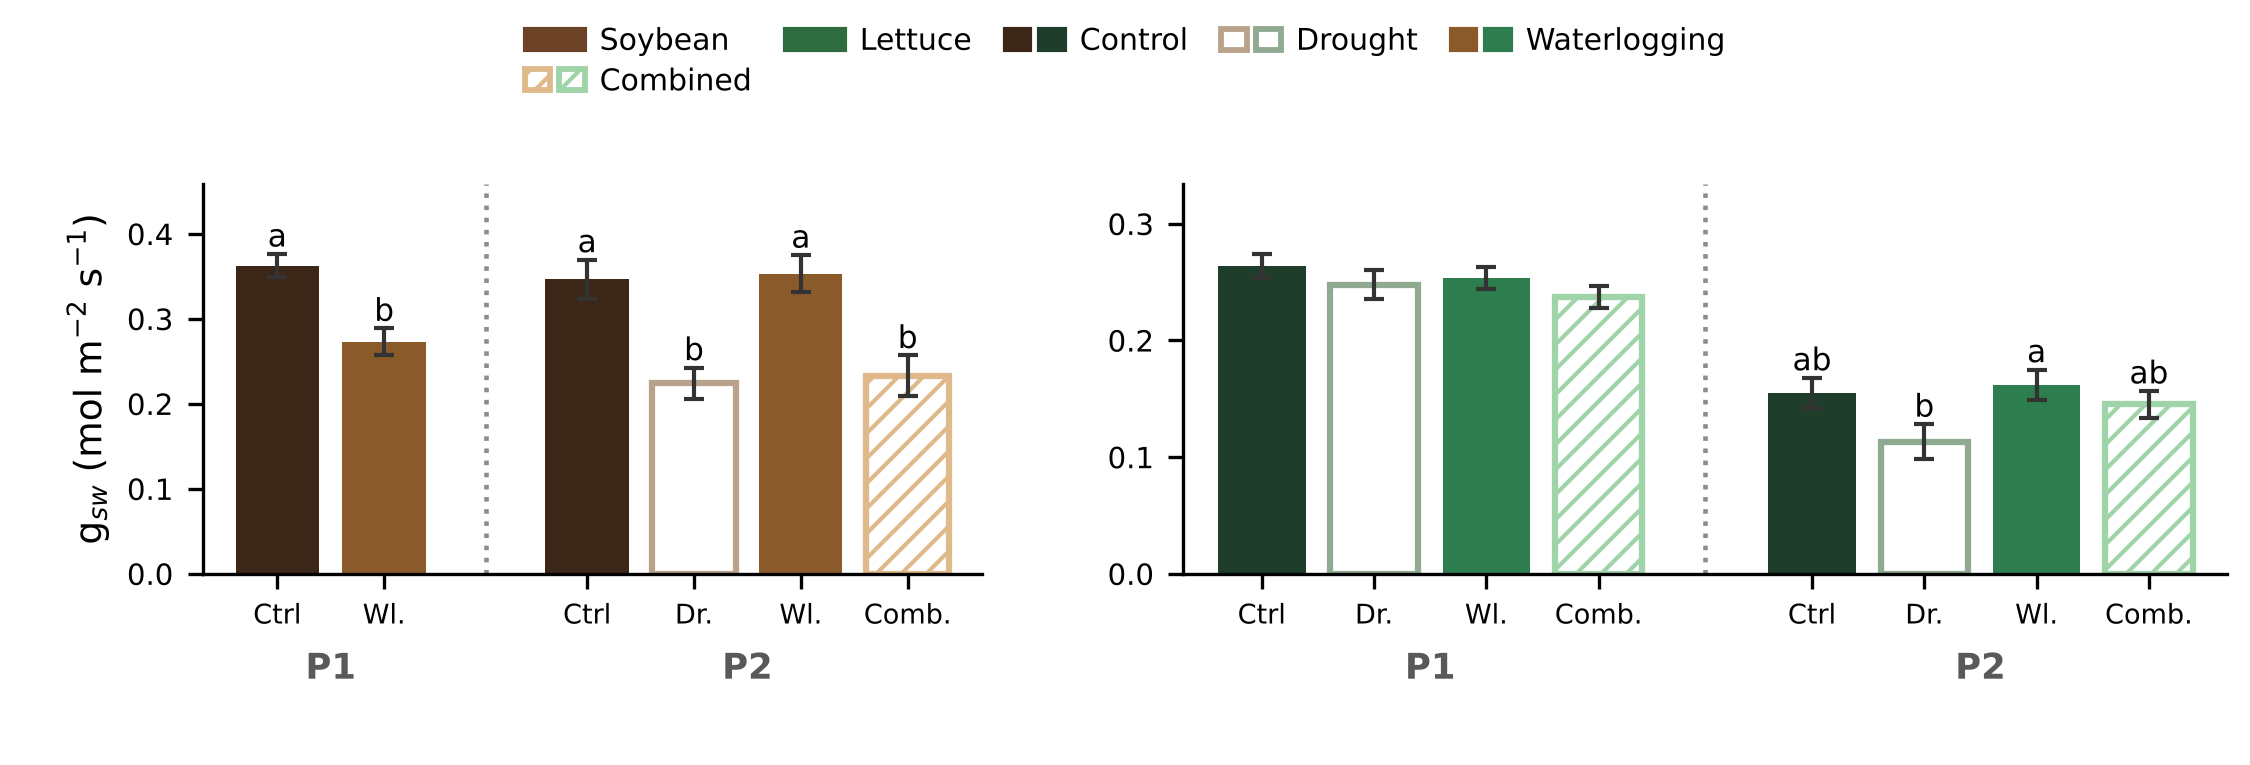
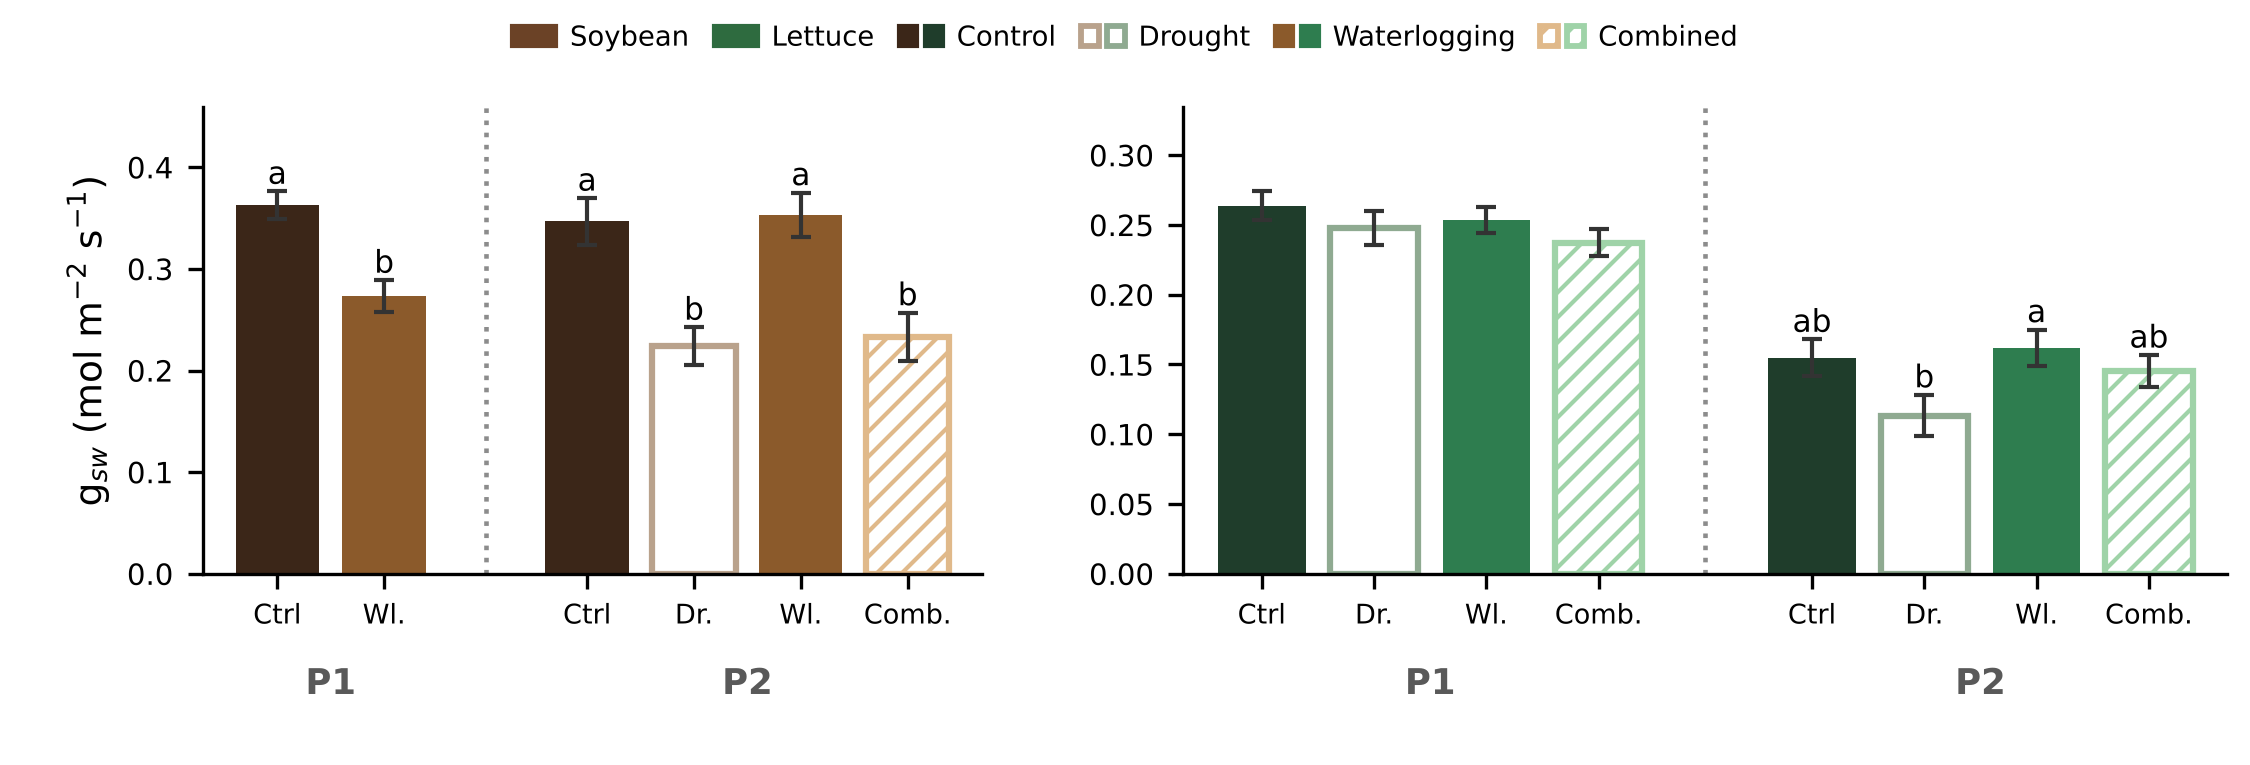
gsw 막대 그래프 2종 범례 한 줄로 정리
Claude-Session: https://claude.ai/code/session_01UmxmETyGrZNmWrhahjyccu

diff --git a/03_코드/oral_deck/bars/fig_v13.py b/03_코드/oral_deck/bars/fig_v13.py
@@ -36,16 +36,16 @@ def panel(ax,ind,crop,xlab=True,ylab=True):
     if ylab: ax.set_ylabel(LAB[ind],fontsize=9)
     if xlab:
         for per,xc in groups: ax.text(xc,-0.2,per,ha='center',va='top',fontsize=8.5,fontweight='bold',color='0.35',transform=ax.get_xaxis_transform())
-def legend_bar(fig,ncol=5):
+def legend_bar(fig,ncol=5,fs=7.2,cs=1.1,hl=2.0):
     hs=[(tuple(Patch(color=CROPC[c][t]) if FILLED[t] else Patch(facecolor='white',edgecolor=CROPC[c][t],lw=1.4,hatch='////' if t=='침수ETc50' else None) for c in ('bean','lettuce')),NAME[t]) for t in ORDER]
-    legend2(fig,E_crops()+hs,ncol,fontsize=7.2,hl=2.0)
-def make(inds,size,fname,adjust):
+    legend2(fig,E_crops()+hs,ncol,fontsize=fs,hl=hl,cs=cs)
+def make(inds,size,fname,adjust,lg=dict()):
     r=len(inds); wr=[nbars('bean')-1+0.9,nbars('lettuce')-1+0.9]
     fig,axs=plt.subplots(r,2,figsize=size,dpi=300,gridspec_kw={'width_ratios':wr}); axs=np.atleast_2d(axs)
     for i,ind in enumerate(inds):
         for j,crop in enumerate(['bean','lettuce']): panel(axs[i,j],ind,crop,xlab=(i==r-1),ylab=(j==0))
-    legend_bar(fig); fig.subplots_adjust(**adjust); fig.savefig('figs5/'+fname); plt.close(fig)
+    legend_bar(fig,**lg); fig.subplots_adjust(**adjust); fig.savefig('figs5/'+fname); plt.close(fig)
 if __name__=='__main__':
-    make(['gsw'],(7.5,2.55),'bars_gsw.png',dict(left=0.09,right=0.99,top=0.76,bottom=0.25,wspace=0.22))
+    make(['gsw'],(7.5,2.55),'bars_gsw.png',dict(left=0.09,right=0.99,top=0.86,bottom=0.25,wspace=0.22),lg=dict(ncol=6,fs=6.6,cs=0.9,hl=1.6))
     make(['phi','phinpq','phino'],(7.2,5.3),'bars_phi3.png',dict(left=0.095,right=0.99,top=0.89,bottom=0.085,hspace=0.2,wspace=0.22))
     print('ok')

diff --git a/03_코드/oral_deck/bars/fig_v14.py b/03_코드/oral_deck/bars/fig_v14.py
@@ -28,8 +28,8 @@ def make(inds,size,fname,adjust):
     for i,ind in enumerate(inds):
         for j,crop in enumerate(['bean','lettuce']): pct_panel(axs[i,j],ind,crop,xlab=(i==r-1),ylab=(j==0))
     hs=[(tuple(Patch(color=CROPC[c][t]) if FILLED[t] else Patch(facecolor='white',edgecolor=CROPC[c][t],lw=1.4,hatch='////' if t=='침수ETc50' else None) for c in ('bean','lettuce')),NAME[t]) for t in TR]
-    legend2(fig,E_crops()+hs+[(Line2D([],[],color='0.4',ls='--',lw=1),'Control = 100%')]+([] if r==1 else [(Line2D([],[],color='none',marker='$*$',mfc='0.2',mec='0.2',ms=7),'differs from control')]),3 if r==1 else 4,fontsize=7.2,hl=2.0)
+    legend2(fig,E_crops()+hs+[(Line2D([],[],color='0.4',ls='--',lw=1),'Control = 100%')]+([] if r==1 else [(Line2D([],[],color='none',marker='$*$',mfc='0.2',mec='0.2',ms=7),'differs from control')]),6 if r==1 else 4,fontsize=6.6 if r==1 else 7.2,hl=1.6 if r==1 else 2.0,cs=0.9 if r==1 else 1.1)
     fig.subplots_adjust(**adjust); fig.savefig('figs5/'+fname); plt.close(fig)
-make(['gsw'],(7.5,2.55),'pct_gsw.png',dict(left=0.09,right=0.99,top=0.78,bottom=0.25,wspace=0.22))
+make(['gsw'],(7.5,2.55),'pct_gsw.png',dict(left=0.09,right=0.99,top=0.86,bottom=0.25,wspace=0.22))
 make(['phi','phinpq','phino'],(7.2,5.3),'pct_phi3.png',dict(left=0.095,right=0.99,top=0.88,bottom=0.085,hspace=0.2,wspace=0.22))
 print('ok')
